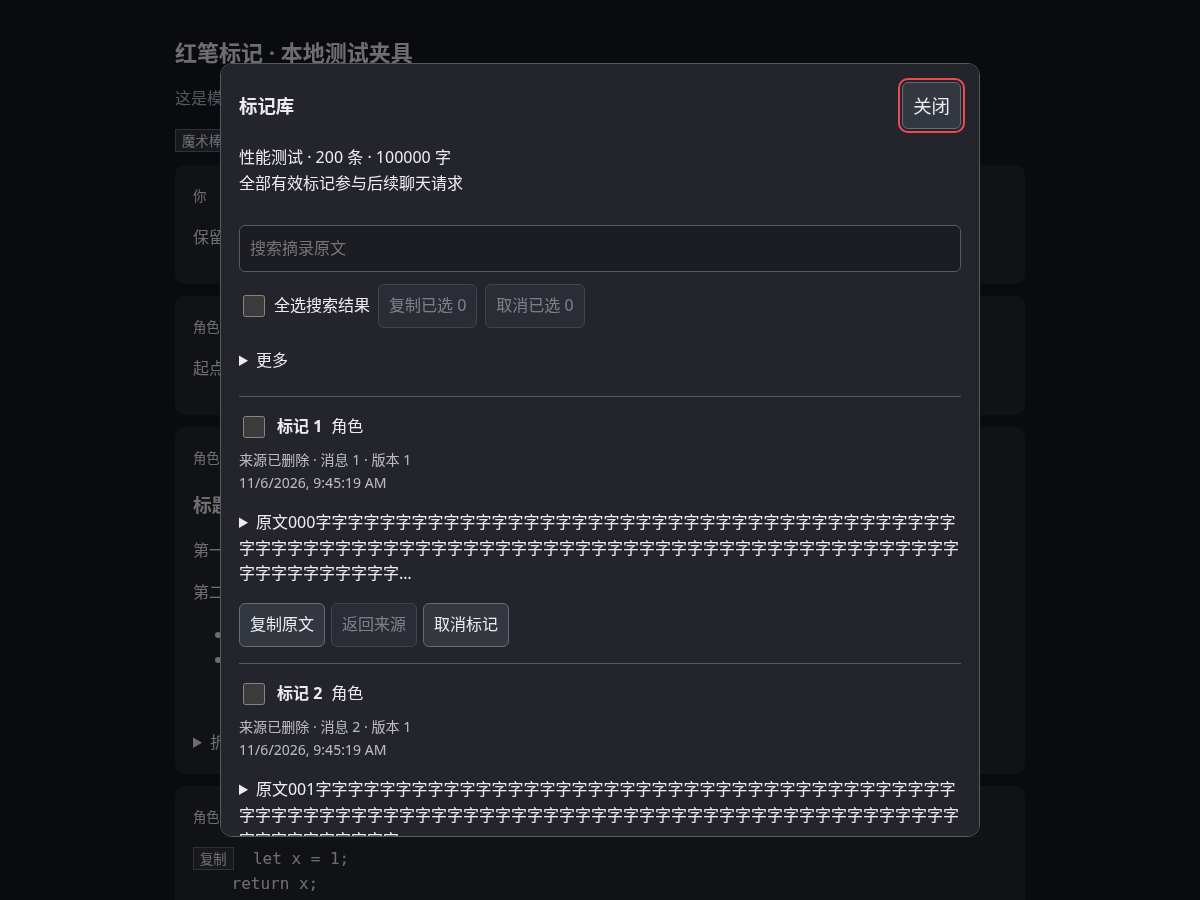
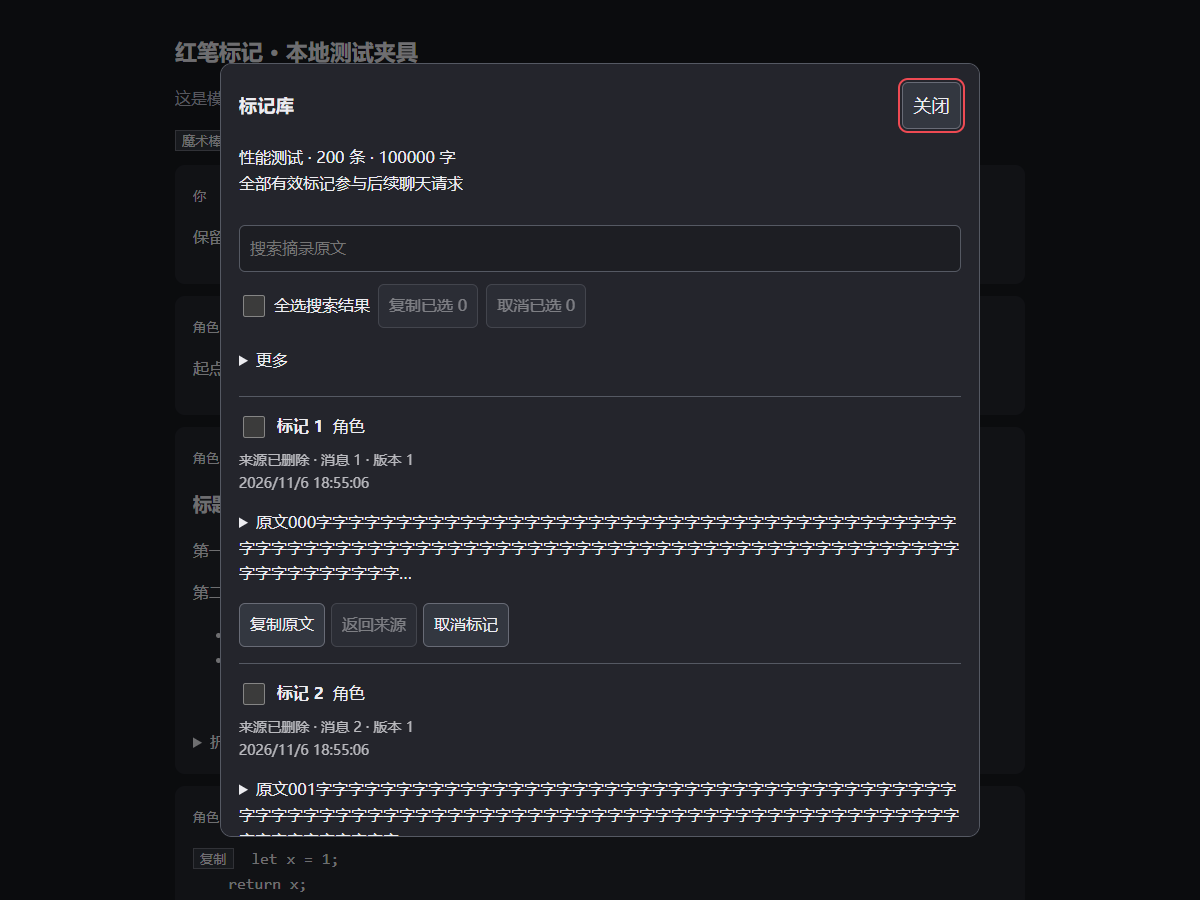
Add one-step auto mark and tap-to-cancel entry in v0.1.5

diff --git a/src/app.js b/src/app.js
@@ -25,6 +25,7 @@ export class RedPen {
         this.highlightMode = this.painter.native ? 'native' : 'overlay';
         this.canHighlight = true;
         this.enabled = (await this.store.get('settings', this.user + ':enabled')) === true;
+        this.autoMark = (await this.store.get('settings', this.user + ':autoMark')) === true;
         this.ui = new UI(this);
         this.transport = new Transport({ host: this.host, currentKey: () => this.key(), load: key => this.store.get('libraries', key), enabled: () => this.enabled, report: () => {}, notify: message => this.ui.say(message), ready: () => this.loading ?? Promise.resolve() });
         this.transport.observeSave = data => {
@@ -87,9 +88,11 @@ export class RedPen {
         this.listen(document, 'pointerdown', e => { if (this.enabled && e.pointerType !== 'mouse' && e.target?.closest?.('#chat')) this.watchSelection(); }, { passive: true });
         this.listen(document, 'keydown', e => { if (e.key === 'Escape') this.ui.action.hidden = true; });
         this.listen(document, 'click', e => {
-            if (!this.enabled || !e.target.closest('.mes_text') || !window.getSelection()?.isCollapsed) return;
+            if (!this.enabled || !e.target.closest('.mes_text')) return;
             const hit = this.painter.hit(e.clientX, e.clientY);
+            if (!hit && !window.getSelection()?.isCollapsed) return;
             if (hit) {
+                this.cancelAutoMark();
                 this.ui.marked(hit.record);
                 this.ui.action.style.left = `${Math.max(8, Math.min(e.clientX, innerWidth - 280))}px`;
                 this.ui.action.style.top = `${Math.max(8, Math.min(e.clientY + 16, innerHeight - 110))}px`;
@@ -98,7 +101,11 @@ export class RedPen {
         this.listen(document, 'visibilitychange', () => { if (document.visibilityState === 'visible') this.refresh(); });
         if (this.channel) this.channel.onmessage = async event => {
             if (event.data?.user !== this.user) return;
-            if (event.data.setting) { this.enabled = (await this.store.get('settings', this.user + ':enabled')) === true && this.canHighlight; this.ui.action.hidden = true; }
+            if (event.data.setting) {
+                this.enabled = (await this.store.get('settings', this.user + ':enabled')) === true;
+                this.autoMark = (await this.store.get('settings', this.user + ':autoMark')) === true;
+                this.ui.action.hidden = true;
+            }
             await this.refresh();
         };
         const chat = document.getElementById('chat');
@@ -169,7 +176,30 @@ export class RedPen {
         this.channel?.postMessage({ user: this.user, key });
         return result;
     }
+    async setAutoMark(on) {
+        this.autoMark = !!on;
+        await this.store.setting(this.user + ':autoMark', this.autoMark);
+        this.cancelAutoMark();
+        this.ui.action.hidden = true;
+        this.channel?.postMessage({ user: this.user, setting: true });
+    }
+    cancelAutoMark() { clearTimeout(this.autoMarkTimer); this.autoMarkTimer = null; }
+    /** 选中即标记：选区稳定 900ms 后自动入库，长按选字只需一步。
+     * 选区还在拖动时签名会变，计时会被重置。 */
+    scheduleAutoMark() {
+        this.cancelAutoMark();
+        if (!this.autoMark || !this.enabled || !this.lastCandidate) return;
+        const candidate = this.lastCandidate, signature = this.selectionSignature;
+        this.autoMarkTimer = setTimeout(() => {
+            this.autoMarkTimer = null;
+            if (!this.autoMark || !this.enabled || this.lastCandidate !== candidate) return;
+            if (this.selectionSignature !== signature || !candidate.root.isConnected) return;
+            if (this.ui.dialog.open || this.ui.inspect.open || this.controlPanel?.dialog?.open) return;
+            this.add(candidate).catch(() => {});
+        }, 900);
+    }
     async setEnabled(on) {
+        if (!on) this.cancelAutoMark();
         await this.store.setting(this.user + ':enabled', on);
         this.enabled = on; this.ui.action.hidden = true; this.ui.update(); this.paint();
         this.channel?.postMessage({ user: this.user, setting: true });
@@ -202,7 +232,7 @@ export class RedPen {
         const diag = { at: new Date().toISOString(), source, enabled: this.enabled, dialog, collapsed: !selection || selection.isCollapsed, ranges: selection?.rangeCount ?? 0, state: '', message: '' };
         this.selectionDiag = diag;
         if (!this.enabled || dialog) { diag.state = this.enabled ? 'dialog' : 'disabled'; this.hideAction(); return; }
-        if (diag.collapsed || !diag.ranges) { diag.state = 'empty'; this.hideAction(); return; }
+        if (diag.collapsed || !diag.ranges) { diag.state = 'empty'; this.cancelAutoMark(); this.hideAction(); return; }
         const root = messageRootOf(selection.getRangeAt(0).startContainer) ?? messageRootOf(selection.getRangeAt(0).endContainer);
         if (!root) { diag.state = 'outside'; this.hideAction(); return; }
         try {
@@ -215,6 +245,7 @@ export class RedPen {
             this.lastCandidate = candidate;
             diag.state = 'ok';
             this.ui.selection(candidate);
+            this.scheduleAutoMark();
         } catch (e) {
             diag.state = 'error';
             diag.message = e.message;
@@ -235,6 +266,7 @@ export class RedPen {
         if (!this.saved.has(key)) throw new Error('未能确认聊天来源已保存；标记尚未添加，请检查服务器连接后重试');
     }
     async add(candidate) {
+        this.cancelAutoMark();
         if (!this.enabled) throw new Error('标记已暂停');
         const key = this.key();
         if (!candidate || !key || key !== candidate.chatKey || !candidate.root.isConnected) throw new Error('选区来源已变化，请重新选字');
@@ -350,7 +382,7 @@ export class RedPen {
     }
     dispose() {
         this.alive = false; this.epoch++; clearTimeout(this.selectionTimer); clearTimeout(this.paintTimer);
-        clearInterval(this.selectionWatch); this.selectionWatch = null;
+        clearInterval(this.selectionWatch); this.selectionWatch = null; this.cancelAutoMark();
         this.observer?.disconnect(); this.channel?.close();
         for (const cleanup of this.listeners.splice(0)) cleanup();
         this.painter.dispose?.(); this.painter.clear(); this.transport?.dispose(); this.store.close(); this.ui?.dispose();

diff --git a/index.js b/index.js
@@ -1,6 +1,6 @@
 // Keep the menu and startup diagnostics independent of core imports. Loading
 // failures must leave an entry that the user can open from the native wand.
-export const VERSION = '0.1.4';
+export const VERSION = '0.1.5';
 let instance, startPromise, controlPanel, bootstrapCleanup, hostTimer, generation = 0;
 function hasStorage() { try { return !!globalThis.indexedDB; } catch { return false; } }
 function element(tag, text, className) {
@@ -25,6 +25,8 @@ export function createControlPanel(retry = initialize) {
                 panel.toggle.setAttribute('aria-pressed', String(app.enabled));
                 panel.toggle.disabled = app.canHighlight === false;
                 panel.library.textContent = `打开标记库（${app.library?.records.length ?? 0}）`;
+                panel.auto.checked = Boolean(app.autoMark);
+                panel.auto.disabled = false;
                 panel.status.textContent = (app.versionWarning ? '酒馆版本未经验证，基础标记可用。' : '') + (app.enabled ? '标记已开启，当前聊天的有效标记会参与后续请求。' : '标记已暂停，已保存内容仍保留。点击“开启标记”开始使用。');
             }
             panel.inspect();
@@ -75,12 +77,20 @@ export function createControlPanel(retry = initialize) {
         panel.update(app);
         panel.status.textContent = message;
     });
+    const autoWrap = element('label', undefined, 'rp-check');
+    panel.auto = document.createElement('input');
+    panel.auto.type = 'checkbox';
+    panel.auto.disabled = true;
+    panel.auto.addEventListener('change', () => {
+        Promise.resolve(panel.app?.setAutoMark(panel.auto.checked)).catch(e => panel.error(e));
+    });
+    autoWrap.append(panel.auto, element('span', '选中即标记（选字后约 1 秒自动保存，少点一次）'));
     controls.append(panel.toggle, panel.library, panel.mark);
     const help = element('p', '开启后，在普通聊天正文中长按选字，拖动系统选区手柄，再点击出现的“标记”。系统复制菜单仍可正常使用。', 'rp-help');
     const scope = element('p', '图片、视频和角色卡内嵌网页暂不支持选字标记。', 'rp-meta');
     panel.details = element('details'); panel.details.append(element('summary', '状态检查'));
     panel.diagnostic = element('pre'); panel.details.append(panel.diagnostic, action('重新检查启动', async () => { const app = await retry(); panel.bind(app); }));
-    panel.dialog.append(header, panel.status, controls, help, scope, panel.details); document.body.append(panel.dialog);
+    panel.dialog.append(header, panel.status, controls, autoWrap, help, scope, panel.details); document.body.append(panel.dialog);
     const mount = () => {
         const menu = document.getElementById('extensionsMenu');
         if (!menu) return false;

diff --git a/style.css b/style.css
@@ -12,10 +12,10 @@
 .rp-control summary { min-height: 40px; cursor: pointer; }
 .rp-control pre { white-space: pre-wrap; overflow-wrap: anywhere; font: inherit; line-height: 1.6; }
 #red-pen-menu-item { min-height: 44px; }
-.rp-action { position: fixed; z-index: 10010; display: flex; gap: 6px; align-items: center; padding: 6px; border: 1px solid var(--SmartThemeBorderColor, #777); border-radius: 9px; background: var(--SmartThemeBlurTintColor, #25252d); box-shadow: 0 3px 16px #0005; max-width: calc(100vw - 16px); }
+.rp-action { position: fixed; z-index: 2147483000; display: flex; gap: 6px; align-items: center; padding: 6px; border: 1px solid var(--SmartThemeBorderColor, #777); border-radius: 9px; background: var(--SmartThemeBlurTintColor, #25252d); box-shadow: 0 3px 16px #0005; max-width: calc(100vw - 16px); }
 .rp-action[hidden], .rp-toast[hidden] { display: none; }
 .rp-action button { touch-action: manipulation; }
-.rp-toast { position: fixed; z-index: 10030; left: 50%; transform: translateX(-50%); bottom: max(155px, env(safe-area-inset-bottom)); padding: 12px 16px; width: max-content; max-width: calc(100vw - 24px); background: var(--SmartThemeBlurTintColor, #25252d); border: 1px solid var(--SmartThemeBorderColor, #777); border-radius: 10px; overflow-wrap: anywhere; display: flex; gap: 12px; align-items: center; }
+.rp-toast { position: fixed; z-index: 2147483001; left: 50%; transform: translateX(-50%); bottom: max(155px, env(safe-area-inset-bottom)); padding: 12px 16px; width: max-content; max-width: calc(100vw - 24px); background: var(--SmartThemeBlurTintColor, #25252d); border: 1px solid var(--SmartThemeBorderColor, #777); border-radius: 10px; overflow-wrap: anywhere; display: flex; gap: 12px; align-items: center; }
 .rp-library { width: min(760px, calc(100vw - 24px)); max-height: 86dvh; padding: 18px; margin: auto; border: 1px solid var(--SmartThemeBorderColor, #666); border-radius: 12px; background: var(--SmartThemeBlurTintColor, #25252d); overflow: auto; overscroll-behavior: contain; }
 .rp-library::backdrop { background: #0008; }
 .rp-library header { display: flex; align-items: center; justify-content: space-between; gap: 10px; font-size: 1.15em; }
@@ -46,3 +46,5 @@
 .rp-overlay { position: fixed; inset: 0; z-index: 9000; pointer-events: none; overflow: hidden; }
 .rp-overlay i { position: absolute; display: block; margin: 0; padding: 0; background: rgba(230, 55, 64, .16); border-bottom: 2px solid #ee4a53; border-radius: 2px; }
 .rp-hint { max-width: min(320px, 72vw); font-size: .92em; line-height: 1.45; overflow-wrap: anywhere; }
+.rp-check { display: flex; align-items: center; gap: 8px; min-height: 44px; margin: 10px 0 2px; cursor: pointer; }
+.rp-check input { width: 22px; height: 22px; accent-color: #d84e58; }

diff --git a/src/ui.js b/src/ui.js
@@ -128,7 +128,7 @@ export class UI {
         if (error) this.action.replaceChildren(node('span', `无法标记：${error}`, 'rp-hint'), this.act('关闭', () => { this.action.hidden = true; }));
         else {
             this.action.replaceChildren(this.act('标记', () => this.app.add(candidate)));
-            this.action.append(this.act('复制', () => copy(candidate.text)));
+            this.action.append(this.act('复制', () => { this.app.cancelAutoMark?.(); return copy(candidate.text); }));
         }
         this.action.hidden = false;
         const rect = candidate?.range.getBoundingClientRect();

diff --git a/README.md b/README.md
@@ -1,4 +1,4 @@
-# 酒馆红笔标记 0.1.4
+# 酒馆红笔标记 0.1.5
 
 在酒馆聊天正文中选字、标记，让已保存的原文持续参与后续对话。包含完整源码，不需要构建，也不需要酒馆助手。
 
@@ -14,7 +14,7 @@ https://github.com/cjhkcjgk3-sys/sillytavern-red-pen
 
 安装后刷新酒馆，点击输入框左下角的 **魔术棒 → 红笔标记**。所有常规操作都集中在同一面板，页面不再放置右下角悬浮按钮。首次使用默认暂停，在面板中点击“开启标记”。
 
-已经安装旧版时，在扩展管理器中更新“红笔标记”后刷新页面，确认面板版本为 **0.1.4**。本次更新保留已有标记与编号；手动安装时覆盖插件文件，不清理浏览器网站数据。
+已经安装旧版时，在扩展管理器中更新“红笔标记”后刷新页面，确认面板版本为 **0.1.5**。本次更新保留已有标记与编号；手动安装时覆盖插件文件，不清理浏览器网站数据。
 
 也可以下载源码或安装包后手动安装：
 
@@ -31,11 +31,11 @@ https://github.com/cjhkcjgk3-sys/sillytavern-red-pen
 ## 使用
 
 1. 进入一段聊天，点击 **左下角魔术棒 → 红笔标记 → 开启标记**，关闭面板回到聊天。
-2. **手机：系统长按普通聊天正文 → 拖动原生选区手柄 → 轻触选区操作中的“标记”。** 长按负责选字，不会自动保存；还需点击一次“标记”。桌面用鼠标拖选，再点附近的“标记”。系统复制菜单继续保留，选区入口也提供复制。图片、视频及角色卡内嵌网页暂不支持。
+2. **手机：系统长按普通聊天正文 → 拖动原生选区手柄 → 轻触选区操作中的“标记”。** 想再少一步，可在面板里勾选 **“选中即标记”**：选好字约 1 秒后自动保存，不用点浮条；选字复制时也会标记，提示条上有「撤销」。 长按负责选字，不会自动保存；还需点击一次“标记”。桌面用鼠标拖选，再点附近的“标记”。系统复制菜单继续保留，选区入口也提供复制。图片、视频及角色卡内嵌网页暂不支持。
 3. 在不同消息中继续标记。正文出现红色底纹与下划线，摘录自动进入当前聊天的标记库。
 4. 直接发要求，例如“标记 1 原文保留，标记 3 改写”。标记本身不预设保留、删除或改写。
 
-轻触已有红色标记，再点“取消标记”；也可从库中取消。取消后有 10 秒撤销入口，恢复原编号。
+轻触已有红色标记会直接弹出“取消标记”，再点一下就取消（两步），也可从库中取消。取消后有 10 秒撤销入口，恢复原编号。
 
 从 **魔术棒 → 红笔标记 → 打开标记库** 管理摘录。标记库支持原文搜索、展开全文、复制、返回来源、勾选批量取消。勾选只影响管理；搜索和勾选都不改变发送范围。搜索变化会清空勾选。备份、恢复和附加内容核对在“更多”里。
 
@@ -45,7 +45,7 @@ https://github.com/cjhkcjgk3-sys/sillytavern-red-pen
 
 ## 看不到入口或长按没反应
 
-先确认已经更新到 0.1.4 并刷新了酒馆页面，再检查左下角魔术棒中是否有“红笔标记”。面板里的“状态检查”会显示插件版本、启动失败原因及浏览器能力。核心文件加载或启动检查失败时，魔术棒入口仍保留，错误信息会持续显示；不再只弹一下提示就消失。可以先更新、刷新，再点击“重新检查启动”。
+先确认已经更新到 0.1.5 并刷新了酒馆页面，再检查左下角魔术棒中是否有“红笔标记”。面板里的“状态检查”会显示插件版本、启动失败原因及浏览器能力。核心文件加载或启动检查失败时，魔术棒入口仍保留，错误信息会持续显示；不再只弹一下提示就消失。可以先更新、刷新，再点击“重新检查启动”。
 
 如果某条消息的显示内容在标记之后被改动（行号、重渲染、其他扩展改写 DOM），这条消息上的红线会暂时隐藏，插件会在聊天里提示一次，摘录仍完整保存在标记库中。关闭「前端代码块高亮」这类只改渲染、不改字符的开关不受影响。
 
@@ -90,7 +90,7 @@ npm test
 npm run test:browser
 ```
 
-浏览器检查使用系统 Chromium；可用 `CHROMIUM_PATH` 指定其可执行文件。本地测试夹具会发出模拟请求，不使用密钥。运行时只有原生浏览器模块，没有 npm 或 CDN 运行依赖。
+浏览器检查使用系统 Chromium / Edge；可用 `CHROMIUM_PATH` 指定其可执行文件（Windows 示例：`CHROMIUM_PATH="C:/Program Files (x86)/Microsoft/Edge/Application/msedge.exe" npm run test:browser`）。本地测试夹具会发出模拟请求，不使用密钥。运行时只有原生浏览器模块，没有 npm 或 CDN 运行依赖。
 
 还有可选的真实 1.18 回归脚本 `tests/runtime-118.mjs`。仅在全新、可丢弃的数据目录中启动 1.18.0，并安装本插件，再运行：
 

diff --git a/docs/ACCEPTANCE.md b/docs/ACCEPTANCE.md
@@ -1,6 +1,17 @@
 # 验收与兼容记录
 
-交付状态：**0.1.4 开发测试包，保留 1.18.0 兼容，修复触屏长按选区不出入口，尚未通过蓝图的全部正式首版验收。** 没有操作用户的酒馆实例，没有使用真实模型 API 密钥。
+交付状态：**0.1.5 开发测试包，保留 1.18.0 兼容，修复触屏长按选区不出入口，尚未通过蓝图的全部正式首版验收。** 没有操作用户的酒馆实例，没有使用真实模型 API 密钥。
+
+## 0.1.5：两步完成标记
+
+使用反馈：标记要走 4 步（选中 → 魔术棒 → 红笔标记 → 标记当前选中的文字）。
+
+- 新增「选中即标记」（默认关闭）：选区稳定 900ms 后自动入库，选中即可，1 步完成；拖动选区手柄期间签名变化会重置计时。勾选后选字复制也会被标记，提示条提供 10 秒撤销。
+- 浮条层级从 10010 提到 2147483000，避免被酒馆输入区或第三方浮层盖住；在 393×851 触屏上下文实测位于输入区上方、未被遮挡。
+- 点中已有标记不再要求选区已折叠：安卓点字常产生非折叠选区，旧逻辑会忽略这次点击、拿不到「取消标记」。
+- 修复 `tests/browser.mjs` 的 Windows 路径判断（与 `check.mjs` 同一根因），套件在本机可完整运行并补上 Edge 路径示例。
+
+本地结果：`npm test` 16/16；`npm run check` 通过；`npm run test:browser`（Edge 156，桌面 1280×900 + 触屏 393×851）**21/21 通过**，其中新增元素锚点入口、选中即标记、点标记取消、叠加层回退四项。
 
 ## 0.1.3：触屏长按选区不出“标记”入口
 

diff --git a/CHANGELOG.md b/CHANGELOG.md
@@ -1,5 +1,13 @@
 # 更新记录
 
+## 0.1.5 · 2026-11-06
+
+- 新增「选中即标记」开关（默认关闭）：勾选后长按选字约 1 秒自动保存，标记从 4 步降到 1 步；选字复制时会弹出带「撤销」的提示条。
+- 「标记」浮条层级提到页面最上层，避免被酒馆输入区或其他扩展浮层盖住；按钮保持 44px 触控高度。
+- 点中已有红色标记直接弹出「取消标记」，不再要求选区已折叠（安卓点字常带选区，旧逻辑会忽略这次点击）。
+- 修复 `tests/browser.mjs` 在 Windows 上因路径分隔符导致整个套件超时的问题；本机可用 Edge 跑全套（`CHROMIUM_PATH`）。
+- 浏览器回归扩到 21 项：元素锚点入口、选中即标记、点标记取消、叠加层回退、手机竖屏触控。
+
 ## 0.1.4 · 2026-11-06
 
 - 消息显示内容与标记时不一致（行号、重渲染、其他扩展改写 DOM）导致红线被跳过时，在聊天里提示一次，并说明摘录仍在标记库中；生成过程中不打扰。
